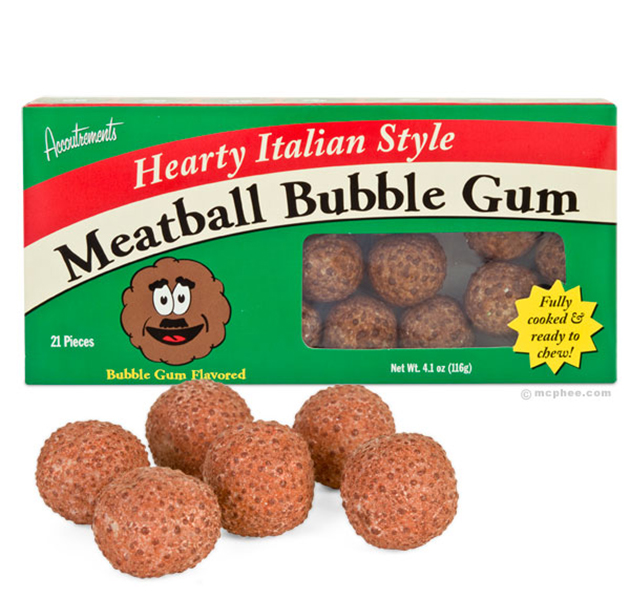
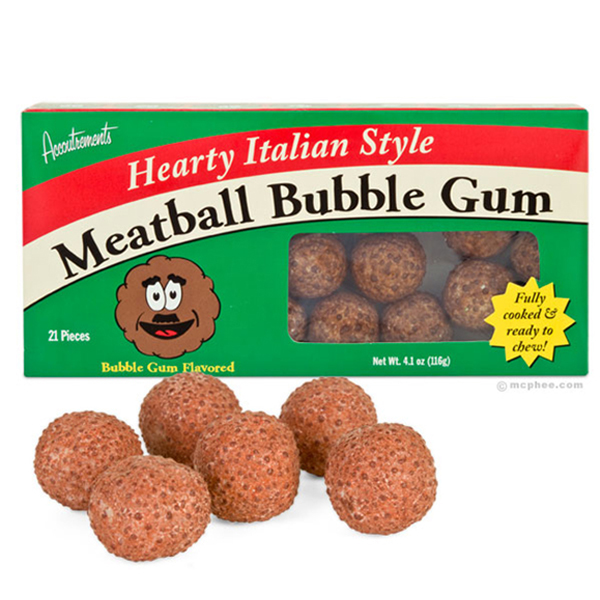
Add resized photos

diff --git a/style.css b/style.css
@@ -23,6 +23,6 @@ img {
 }
 
 #image_container {
-    margin-left: auto;
-    margin-right: auto;
+    margin: 0 auto;
+    width: 960px;
 }
